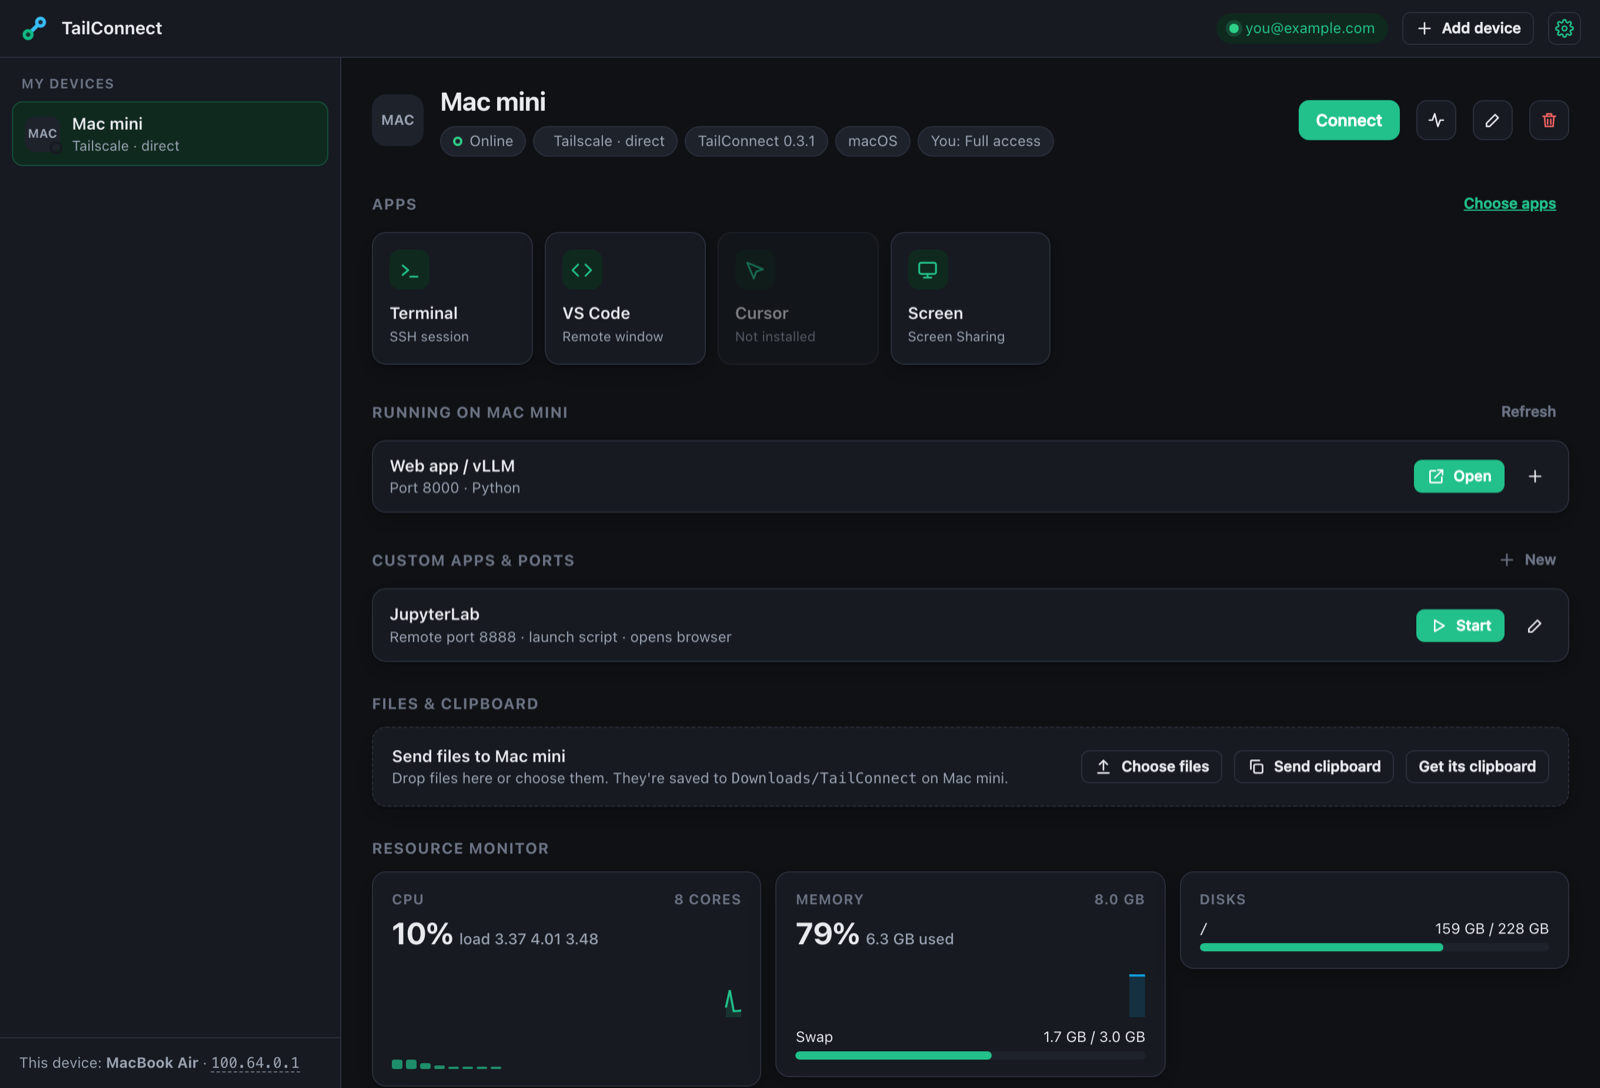
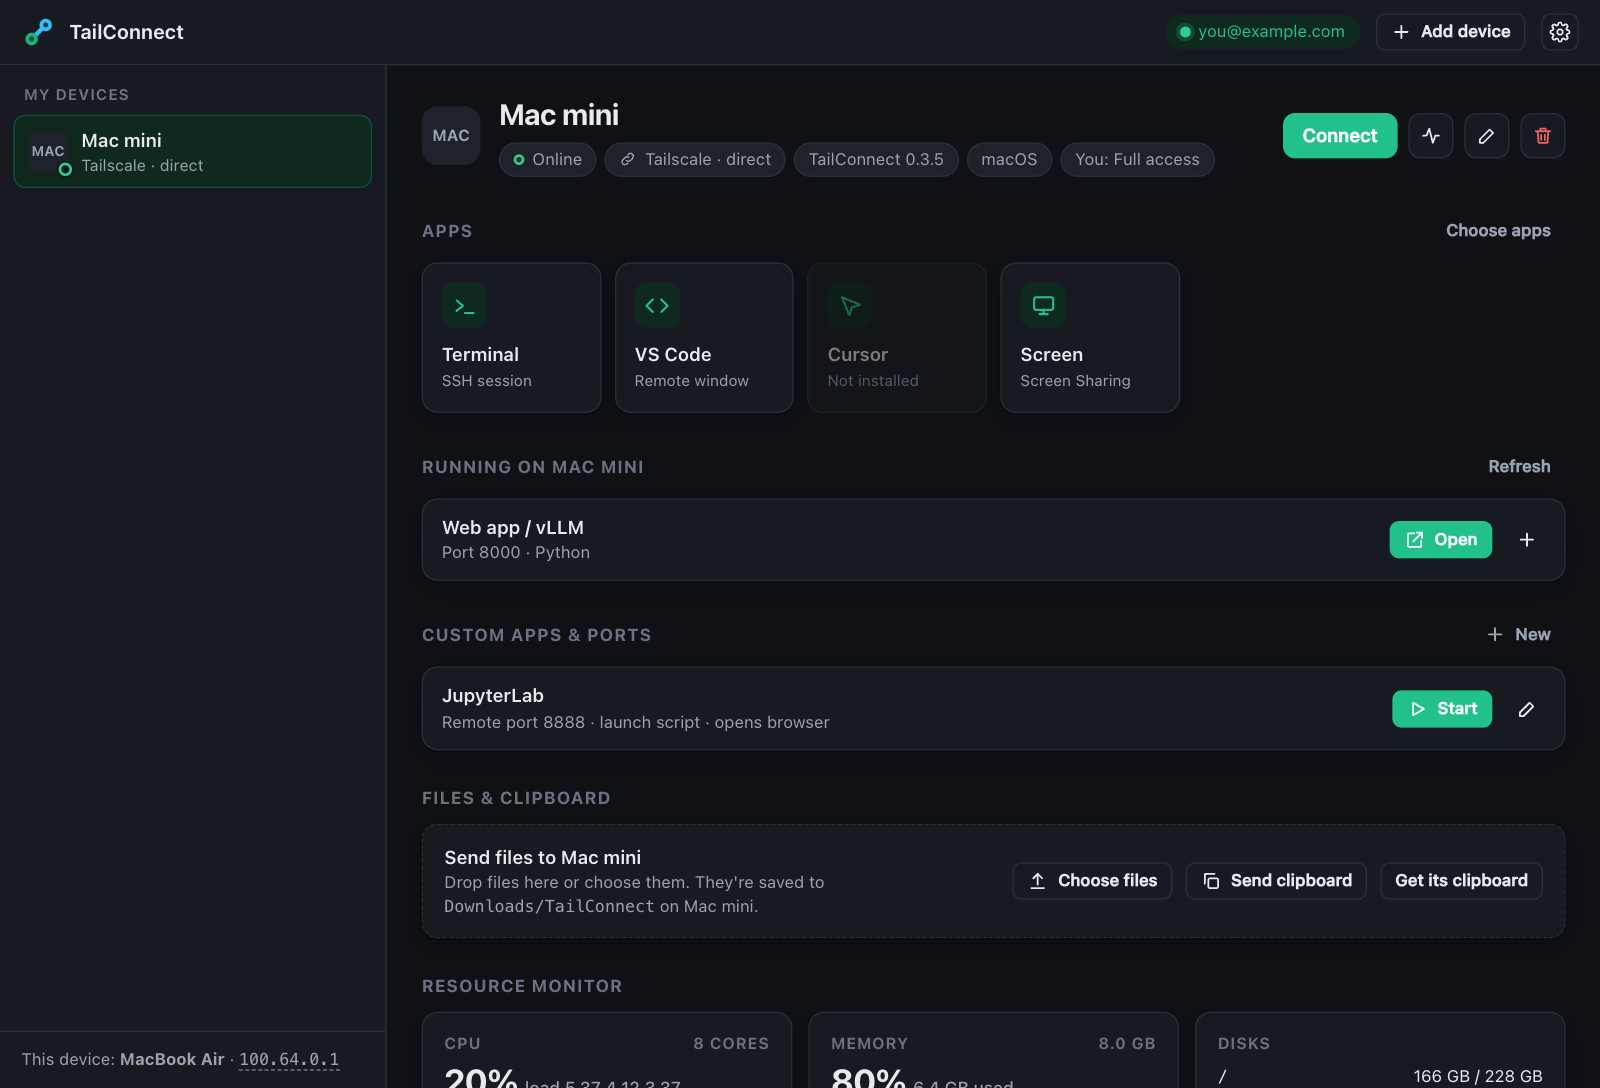
Polish: native-app feel, first-run screen, monitor and narrow windows
- Feels like an app, not a web page: interface text isn't selectable
  (values like addresses, paths and keys still are), no browser context
  menu outside text, themed thin scrollbars, keyboard focus rings,
  reduced-motion support, Cmd/Ctrl+, opens Settings.
- Minimum window size (720x540) on macOS, Windows and Linux.
- First-run screen shows the one-line install commands for macOS/Linux
  and Windows with copy buttons, a download link and the SSH-host option.
- Resource graphs use the full width from the second sample instead of
  a sliver at the right edge; per-core bars fill their row.
- Process table fits narrow windows: names truncate, numbers and Stop
  stay visible; the GPU column only shows on machines with a GPU.
- System card says macOS rather than darwin.
- Device header: actions move to their own row in narrow windows instead
  of squeezing the status pills into a column.
- README screenshots retaken from the current UI.

diff --git a/internal/ui/static/app.js b/internal/ui/static/app.js
@@ -266,7 +266,7 @@ function sidebar() {
   const other = S.devices.filter(d => d.section === "tailnet");
   return `<aside class="sidebar">
     <div class="side-section"><div class="side-title">My devices</div>
-      ${mine.length ? mine.map(item).join("") : `<div class="side-empty">No devices yet. Install TailConnect on another computer and sign in with the same Tailscale account — it will appear here.</div>`}
+      ${mine.length ? mine.map(item).join("") : `<div class="side-empty">No other devices yet. They appear here when you sign in to TailConnect on them.</div>`}
     </div>
     ${disc.length ? `<div class="side-section"><div class="side-title">Available to pair</div>${disc.map(item).join("")}</div>` : ""}
     ${other.length ? `<div class="side-section"><div class="side-title">Other tailnet devices</div>${other.map(item).join("")}</div>` : ""}
@@ -284,12 +284,28 @@ function viewDevice() {
   const d = selectedDevice();
   if (!d) {
     const disc = S.devices.filter(x => x.section === "discovered");
+    const rel = "https://github.com/imbikramsaha/TailConnect/releases/latest";
+    const cmds = [
+      ["macOS & Linux", "Terminal", `curl -fsSL ${rel}/download/install.sh | sh`],
+      ["Windows", "PowerShell", `irm ${rel}/download/install.ps1 | iex`],
+    ];
     return `<div class="welcome">
+      <img class="welcome-icon" src="/icon.png" alt="">
       <h1>Connect your first device</h1>
-      <p class="muted">Install TailConnect on another computer and sign in with <b>${h(S.tailnet.loginName || "the same account")}</b>. Devices on your account pair automatically${S.settings.autoTrustOwnDevices ? "" : " (auto-pairing is off in Settings)"}.</p>
-      ${disc.length ? `<p>${disc.length} TailConnect device${disc.length > 1 ? "s are" : " is"} ready to pair in the sidebar.</p>` : ""}
-      <p class="muted">Or add any Linux/macOS machine you can SSH into:</p>
-      <button class="btn primary" data-act="add-device">${icon("plus")}Add an SSH host</button>
+      <p class="muted">Install TailConnect on another computer and sign in with <b class="nowrap">${h(S.tailnet.loginName || "the same account")}</b>.
+        ${S.settings.autoTrustOwnDevices ? "Your devices find each other and pair automatically." : "Auto-pairing is off in Settings, so you'll approve each device."}</p>
+      ${disc.length ? `<div class="alert ok-soft">${disc.length} TailConnect device${disc.length > 1 ? "s are" : " is"} ready to pair — see the sidebar.</div>` : ""}
+      <div class="install">
+        ${cmds.map(([os, shell, cmd]) => `<div class="install-row">
+          <div class="install-os"><b>${os}</b><span>${shell}</span></div>
+          <code class="install-cmd">${h(cmd)}</code>
+          <button class="btn sm icon ghost" data-act="copy" data-text="${h(cmd)}" title="Copy command" aria-label="Copy ${os} install command">${icon("copy")}</button>
+        </div>`).join("")}
+      </div>
+      <p class="small muted">Prefer a regular installer? <a href="#" data-act="ext" data-url="${rel}">Download TailConnect</a></p>
+      <div class="or"><span>or</span></div>
+      <button class="btn" data-act="add-device">${icon("plus")}Add an SSH host</button>
+      <p class="small faint" style="margin-top:8px">Any Linux or macOS machine you can SSH into — no TailConnect needed there.</p>
     </div>`;
   }
   const st = statusOf(d);
@@ -333,11 +349,11 @@ function viewDevice() {
   return `
     <div class="dev-head">
       <span class="os-badge">${h(osShort(d.os))}</span>
-      <div style="flex:1;min-width:0"><h1>${h(d.name)}</h1><div class="pills">${pills.join("")}</div></div>
-      ${connBtn}
+      <div class="dev-title"><h1>${h(d.name)}</h1><div class="pills">${pills.join("")}</div></div>
+      <div class="dev-actions">${connBtn}
       <button class="btn icon" data-act="diagnose" data-id="${h(d.id)}" title="Test connection" aria-label="Test connection" ${!d.online ? "disabled" : ""}>${icon("pulse")}</button>
       <button class="btn icon" data-act="rename" data-id="${h(d.id)}" title="Rename" aria-label="Rename">${icon("edit")}</button>
-      <button class="btn icon danger" data-act="remove" data-id="${h(d.id)}" title="Remove device" aria-label="Remove device">${icon("trash")}</button>
+      <button class="btn icon danger" data-act="remove" data-id="${h(d.id)}" title="Remove device" aria-label="Remove device">${icon("trash")}</button></div>
     </div>
     ${alerts}
     <h2 class="sec">Apps<span class="spacer"></span><a class="btn sm ghost" href="#/settings/apps">Choose apps</a></h2>
@@ -426,11 +442,12 @@ function viewProcs(d) {
   if (!ex.open) return head;
   if (ex.err.procs) return head + `<div class="card empty">Couldn't list processes: ${h(ex.err.procs)}</div>`;
   if (!ex.procs) return head + `<div class="card empty"><span class="spinner sm"></span> Loading…</div>`;
-  const rows = ex.procs.slice(0, 15).map(p => `<tr>
-    <td class="mono">${p.pid}</td><td title="${h(p.cmd || p.name)}">${h(p.name || "?")}</td><td class="muted">${h(p.user || "")}</td>
-    <td class="num">${p.cpu.toFixed(1)}%</td><td class="num">${bytes(p.rss)}</td><td class="num">${p.gpuMiB ? bytes(p.gpuMiB * 1048576) : ""}</td>
+  const top = ex.procs.slice(0, 15), gpu = top.some(p => p.gpuMiB);
+  const rows = top.map(p => `<tr>
+    <td class="mono">${p.pid}</td><td class="grow" title="${h(p.cmd || p.name)}">${h(p.name || "?")}</td><td class="muted trunc">${h(p.user || "")}</td>
+    <td class="num">${p.cpu.toFixed(1)}%</td><td class="num">${bytes(p.rss)}</td>${gpu ? `<td class="num">${p.gpuMiB ? bytes(p.gpuMiB * 1048576) : ""}</td>` : ""}
     <td>${full ? `<button class="btn sm ghost danger" data-act="kill" data-id="${h(d.id)}" data-pid="${p.pid}" data-name="${h(p.name)}">Stop</button>` : ""}</td></tr>`).join("");
-  return head + `<div class="card table-wrap"><table class="tbl"><thead><tr><th>PID</th><th>Process</th><th>User</th><th class="num">CPU</th><th class="num">Memory</th><th class="num">GPU</th><th></th></tr></thead><tbody>${rows}</tbody></table></div>`;
+  return head + `<div class="card table-wrap"><table class="tbl"><thead><tr><th>PID</th><th>Process</th><th>User</th><th class="num">CPU</th><th class="num">Memory</th>${gpu ? `<th class="num">GPU</th>` : ""}<th></th></tr></thead><tbody>${rows}</tbody></table></div>`;
 }
 
 function viewDocker(d) {
@@ -579,7 +596,9 @@ document.addEventListener("visibilitychange", () => { if (!document.hidden) poll
 function spark(vals, cls) {
   const pts = vals.filter(v => v != null);
   if (pts.length < 2) return `<svg class="spark ${cls || ""}" viewBox="0 0 100 40" preserveAspectRatio="none"></svg>`;
-  const n = 90, step = 100 / (n - 1), off = n - vals.length;
+  // A short history fills the width; once 90 samples are kept it scrolls.
+  const n = Math.min(90, Math.max(vals.length, 2)), step = 100 / (n - 1), off = Math.max(0, n - vals.length);
+  vals = vals.slice(-n);
   let line = "";
   vals.forEach((v, i) => {
     if (v == null) return;
@@ -625,7 +644,7 @@ function viewMonitor(d) {
   }
   cards.push(`<div class="card"><div class="k"><span>System</span><span>up ${uptime(s.uptime)}</span></div>
     <dl class="kv" style="margin-top:8px">
-      <dt>OS</dt><dd>${h(s.platform || osLabel(s.os))}</dd>
+      <dt>OS</dt><dd>${h(s.platform ? s.platform.replace(/^darwin\b/, "macOS") : osLabel(s.os))}</dd>
       ${s.kernel ? `<dt>Kernel</dt><dd>${h(s.kernel)}</dd>` : ""}
       ${s.cpuModel ? `<dt>CPU</dt><dd>${h(s.cpuModel)}</dd>` : ""}
       <dt>Network</dt><dd>${mon.rate ? `↓ ${bytes(mon.rate.rx)}/s · ↑ ${bytes(mon.rate.tx)}/s` : "measuring…"}</dd>
@@ -856,7 +875,17 @@ root.addEventListener("submit", async e => {
     btn.textContent = label;
   }
 });
-document.addEventListener("keydown", e => { if (e.key === "Escape" && root.innerHTML) closeDialog(); });
+document.addEventListener("keydown", e => {
+  if (e.key === "Escape" && root.innerHTML) closeDialog();
+  // Cmd+, (macOS) / Ctrl+, opens Settings, as in other desktop apps.
+  if ((e.metaKey || e.ctrlKey) && e.key === "," && !root.innerHTML) { e.preventDefault(); location.hash = "#/settings"; }
+});
+// No browser context menu (Reload, Back, Inspect) except where text can be
+// edited or copied, so the window behaves like an app rather than a page.
+document.addEventListener("contextmenu", e => {
+  if (e.target.closest("input, textarea, .mono, code, dd, .act-row, .alert, .selectable") || String(getSelection())) return;
+  e.preventDefault();
+});
 
 function addDeviceDialog(prefHost, prefName) {
   openDialog("Add an SSH host", "Any Linux or macOS machine you can SSH into — on your LAN, the internet, or your tailnet. Your password is used once to install TailConnect's key and is never stored.", `

diff --git a/internal/ui/static/style.css b/internal/ui/static/style.css
@@ -45,6 +45,25 @@ body {
   -webkit-font-smoothing: antialiased;
 }
 button, input, select, textarea { font: inherit; color: inherit; }
+
+/* Native-app feel: interface text isn't selectable and keeps the arrow
+   cursor; values people copy (addresses, paths, keys, logs) still are. */
+body { -webkit-user-select: none; user-select: none; cursor: default; }
+input, textarea, .mono, code, dd, .act-row, .alert, .selectable { -webkit-user-select: text; user-select: text; }
+a[href], button:not(:disabled), select, label.check, .copy, [data-act] { cursor: pointer; }
+img, svg { -webkit-user-drag: none; }
+::selection { background: color-mix(in srgb, var(--accent) 28%, transparent); }
+:focus { outline: none; }
+:focus-visible { outline: 2px solid color-mix(in srgb, var(--accent) 60%, transparent); outline-offset: 2px; }
+input:focus-visible, select:focus-visible, textarea:focus-visible { outline-offset: 0; }
+* { scrollbar-width: thin; scrollbar-color: color-mix(in srgb, var(--faint) 55%, transparent) transparent; }
+::-webkit-scrollbar { width: 10px; height: 10px; }
+::-webkit-scrollbar-track { background: transparent; }
+::-webkit-scrollbar-thumb { background: color-mix(in srgb, var(--faint) 45%, transparent); border-radius: 10px; border: 3px solid transparent; background-clip: content-box; }
+::-webkit-scrollbar-thumb:hover { background-color: color-mix(in srgb, var(--faint) 75%, transparent); }
+@media (prefers-reduced-motion: reduce) {
+  *, *::before, *::after { animation-duration: .01ms !important; animation-iteration-count: 1 !important; transition-duration: .01ms !important; }
+}
 a { color: var(--accent); }
 code, .mono { font-family: var(--mono); font-size: 12.5px; }
 .muted { color: var(--muted); }
@@ -138,6 +157,10 @@ code, .mono { font-family: var(--mono); font-size: 12.5px; }
 
 .content { overflow: auto; padding: 22px 26px 40px; min-width: 0; }
 .dev-head { display: flex; align-items: center; gap: 14px; flex-wrap: wrap; }
+/* In narrow windows the action buttons move to their own row instead of
+   squeezing the name and status pills into a column. */
+.dev-title { flex: 1 1 300px; min-width: 0; }
+.dev-actions { display: flex; gap: 8px; align-items: center; margin-left: auto; }
 .dev-head h1 { margin: 0; font-size: 22px; font-weight: 700; letter-spacing: -.01em; }
 .dev-head .os-badge { width: 44px; height: 44px; font-size: 12px; border-radius: 12px; }
 .pills { display: flex; gap: 6px; flex-wrap: wrap; margin-top: 4px; }
@@ -183,7 +206,7 @@ h2.sec .spacer { flex: 1; }
 .bar > i { display: block; height: 100%; background: var(--accent); border-radius: 6px; transition: width .4s; }
 .bar.warn > i { background: var(--warn); }
 .bar.bad > i { background: var(--danger); }
-.cores { display: grid; grid-template-columns: repeat(auto-fill, minmax(9px, 1fr)); gap: 3px; height: 36px; align-items: end; margin-top: 8px; }
+.cores { display: grid; grid-template-columns: repeat(auto-fit, minmax(6px, 1fr)); gap: 3px; height: 36px; align-items: end; margin-top: 8px; }
 .cores i { display: block; background: color-mix(in srgb, var(--accent) 70%, transparent); border-radius: 2px; min-height: 2px; transition: height .4s; }
 .kv { margin: 0; display: grid; grid-template-columns: max-content 1fr; gap: 6px 16px; font-size: 13px; }
 .kv dt { color: var(--muted); }
@@ -204,8 +227,22 @@ h2.sec .spacer { flex: 1; }
 .step > div { padding-top: 2px; line-height: 1.45; }
 .step > b { width: 24px; height: 24px; border-radius: 50%; background: var(--accent-soft); color: var(--accent); display: grid; place-items: center; font-size: 12.5px; flex: none; }
 .btn.lg { height: 44px; padding: 0 22px; font-size: 15px; border-radius: 11px; }
-.welcome { max-width: 640px; margin: 40px auto; text-align: center; }
-.welcome h1 { font-size: 22px; }
+.welcome { max-width: 640px; margin: 48px auto; text-align: center; }
+.welcome h1 { font-size: 22px; margin: 14px 0 8px; letter-spacing: -.01em; }
+.welcome > p { margin: 0 auto 18px; max-width: 520px; }
+.welcome-icon { width: 56px; height: 56px; }
+.install { text-align: left; border: 1px solid var(--border); border-radius: var(--radius); background: var(--panel); box-shadow: var(--shadow); margin-bottom: 12px; }
+.install-row { display: flex; align-items: center; gap: 12px; padding: 10px 10px 10px 16px; }
+.install-row + .install-row { border-top: 1px solid var(--border); }
+.install-os { width: 112px; flex: none; display: grid; line-height: 1.3; }
+.install-os span { font-size: 12px; color: var(--muted); }
+.install-cmd { flex: 1; min-width: 0; padding: 7px 10px; border-radius: 8px; background: var(--panel-2); white-space: nowrap; overflow-x: auto; scrollbar-width: none; }
+.install-cmd::-webkit-scrollbar { display: none; }
+.install-cmd { -webkit-mask-image: linear-gradient(to right, #000 calc(100% - 40px), transparent); mask-image: linear-gradient(to right, #000 calc(100% - 40px), transparent); }
+.nowrap { white-space: nowrap; }
+.or { display: flex; align-items: center; gap: 12px; color: var(--faint); font-size: 12px; text-transform: uppercase; letter-spacing: .08em; margin: 22px auto 16px; max-width: 320px; }
+.or::before, .or::after { content: ""; flex: 1; height: 1px; background: var(--border); }
+.alert.ok-soft { background: var(--accent-soft); border-color: transparent; margin: 0 0 16px; }
 
 /* ---------- settings ---------- */
 .settings { display: grid; grid-template-columns: 200px 1fr; gap: 26px; max-width: 980px; }
@@ -279,6 +316,10 @@ input:focus, select:focus, textarea:focus { outline: 2px solid color-mix(in srgb
 .tbl td { padding: 6px 12px; border-top: 1px solid var(--border); white-space: nowrap; max-width: 280px; overflow: hidden; text-overflow: ellipsis; }
 .tbl tr:first-child td { border-top: 0; }
 .tbl .num { text-align: right; font-variant-numeric: tabular-nums; }
+/* The name column takes the leftover width and truncates, so numbers and
+   actions stay visible in narrow windows instead of scrolling sideways. */
+.tbl td.grow { width: 100%; max-width: 0; }
+.tbl td.trunc { max-width: 110px; }
 .transfer { display: flex; align-items: center; gap: 10px; padding: 14px 16px; flex-wrap: wrap; border-style: dashed; transition: border-color .12s, background .12s; }
 .transfer .grow { flex: 1; min-width: 220px; }
 .transfer .title { font-weight: 600; }

diff --git a/internal/ui/demo_test.go b/internal/ui/demo_test.go
@@ -55,7 +55,7 @@ func TestDemo(t *testing.T) {
 			return nil
 		})
 		c, err := core.New(core.Options{
-			Version: "0.3.1", Store: st, Headless: true,
+			Version: "0.3.5", Store: st, Headless: true,
 			Tailnet: tailnet.Config{Dir: filepath.Join(dir, "ts"), Hostname: name, ControlURL: ctl.HTTPTestServer.URL, Ephemeral: true, InMemory: true},
 			SSHDir:  filepath.Join(dir, "ssh"), AuthorizedKeys: filepath.Join(dir, "ak"), InboxDir: filepath.Join(dir, "inbox"),
 			DiscoveryInterval: 500 * time.Millisecond, ProbeTailConnect: 2 * time.Second, ProbeOther: 2 * time.Second,

diff --git a/internal/window/window.go b/internal/window/window.go
@@ -12,6 +12,14 @@ import (
 // ErrUnsupported means no native window on this platform; use a browser.
 var ErrUnsupported = errors.New("native window not supported on this platform")
 
+// MinWidth and MinHeight bound how small the window can be made; below
+// this the UI's compact layout would have to clip content. The macOS
+// (window_darwin.m) and Linux (window_linux.c) values are set in C.
+const (
+	MinWidth  = 720
+	MinHeight = 540
+)
+
 // Supported reports whether Run works here.
 func Supported() bool { return supported }
 

diff --git a/internal/window/window_linux.c b/internal/window/window_linux.c
@@ -50,6 +50,8 @@ void tcLinuxInit(const char *url) {
   win = gtk_window_new(GTK_WINDOW_TOPLEVEL);
   gtk_window_set_title(GTK_WINDOW(win), "TailConnect");
   gtk_window_set_default_size(GTK_WINDOW(win), 1180, 800);
+  /* Minimum size; keep in sync with MinWidth/MinHeight in window.go. */
+  gtk_widget_set_size_request(win, 720, 540);
   gtk_window_set_icon_name(GTK_WINDOW(win), "tailconnect");
   gtk_window_set_position(GTK_WINDOW(win), GTK_WIN_POS_CENTER);
 

diff --git a/internal/window/window_darwin.m b/internal/window/window_darwin.m
@@ -56,7 +56,7 @@ void tcWindowSetup(void *win) {
   [NSApp setMainMenu:main];
   [NSApp setWindowsMenu:winMenu];
 
-  w.minSize = NSMakeSize(720, 520);
+  w.minSize = NSMakeSize(720, 540); // keep in sync with MinWidth/MinHeight in window.go
   [w setFrameAutosaveName:@"TailConnectMain"];
   [w center];
   tcWindowActivate();

diff --git a/internal/window/window_windows.go b/internal/window/window_windows.go
@@ -55,6 +55,7 @@ func Run(in io.Reader) error {
 		return ErrUnsupported
 	}
 	defer w.Destroy()
+	w.SetSize(MinWidth, MinHeight, webview2.HintMin)
 	_ = w.Bind("tcOpenExternal", func(raw string) {
 		if u, ok := safeExternal(raw); ok {
 			_ = launch.OpenURL(u)
